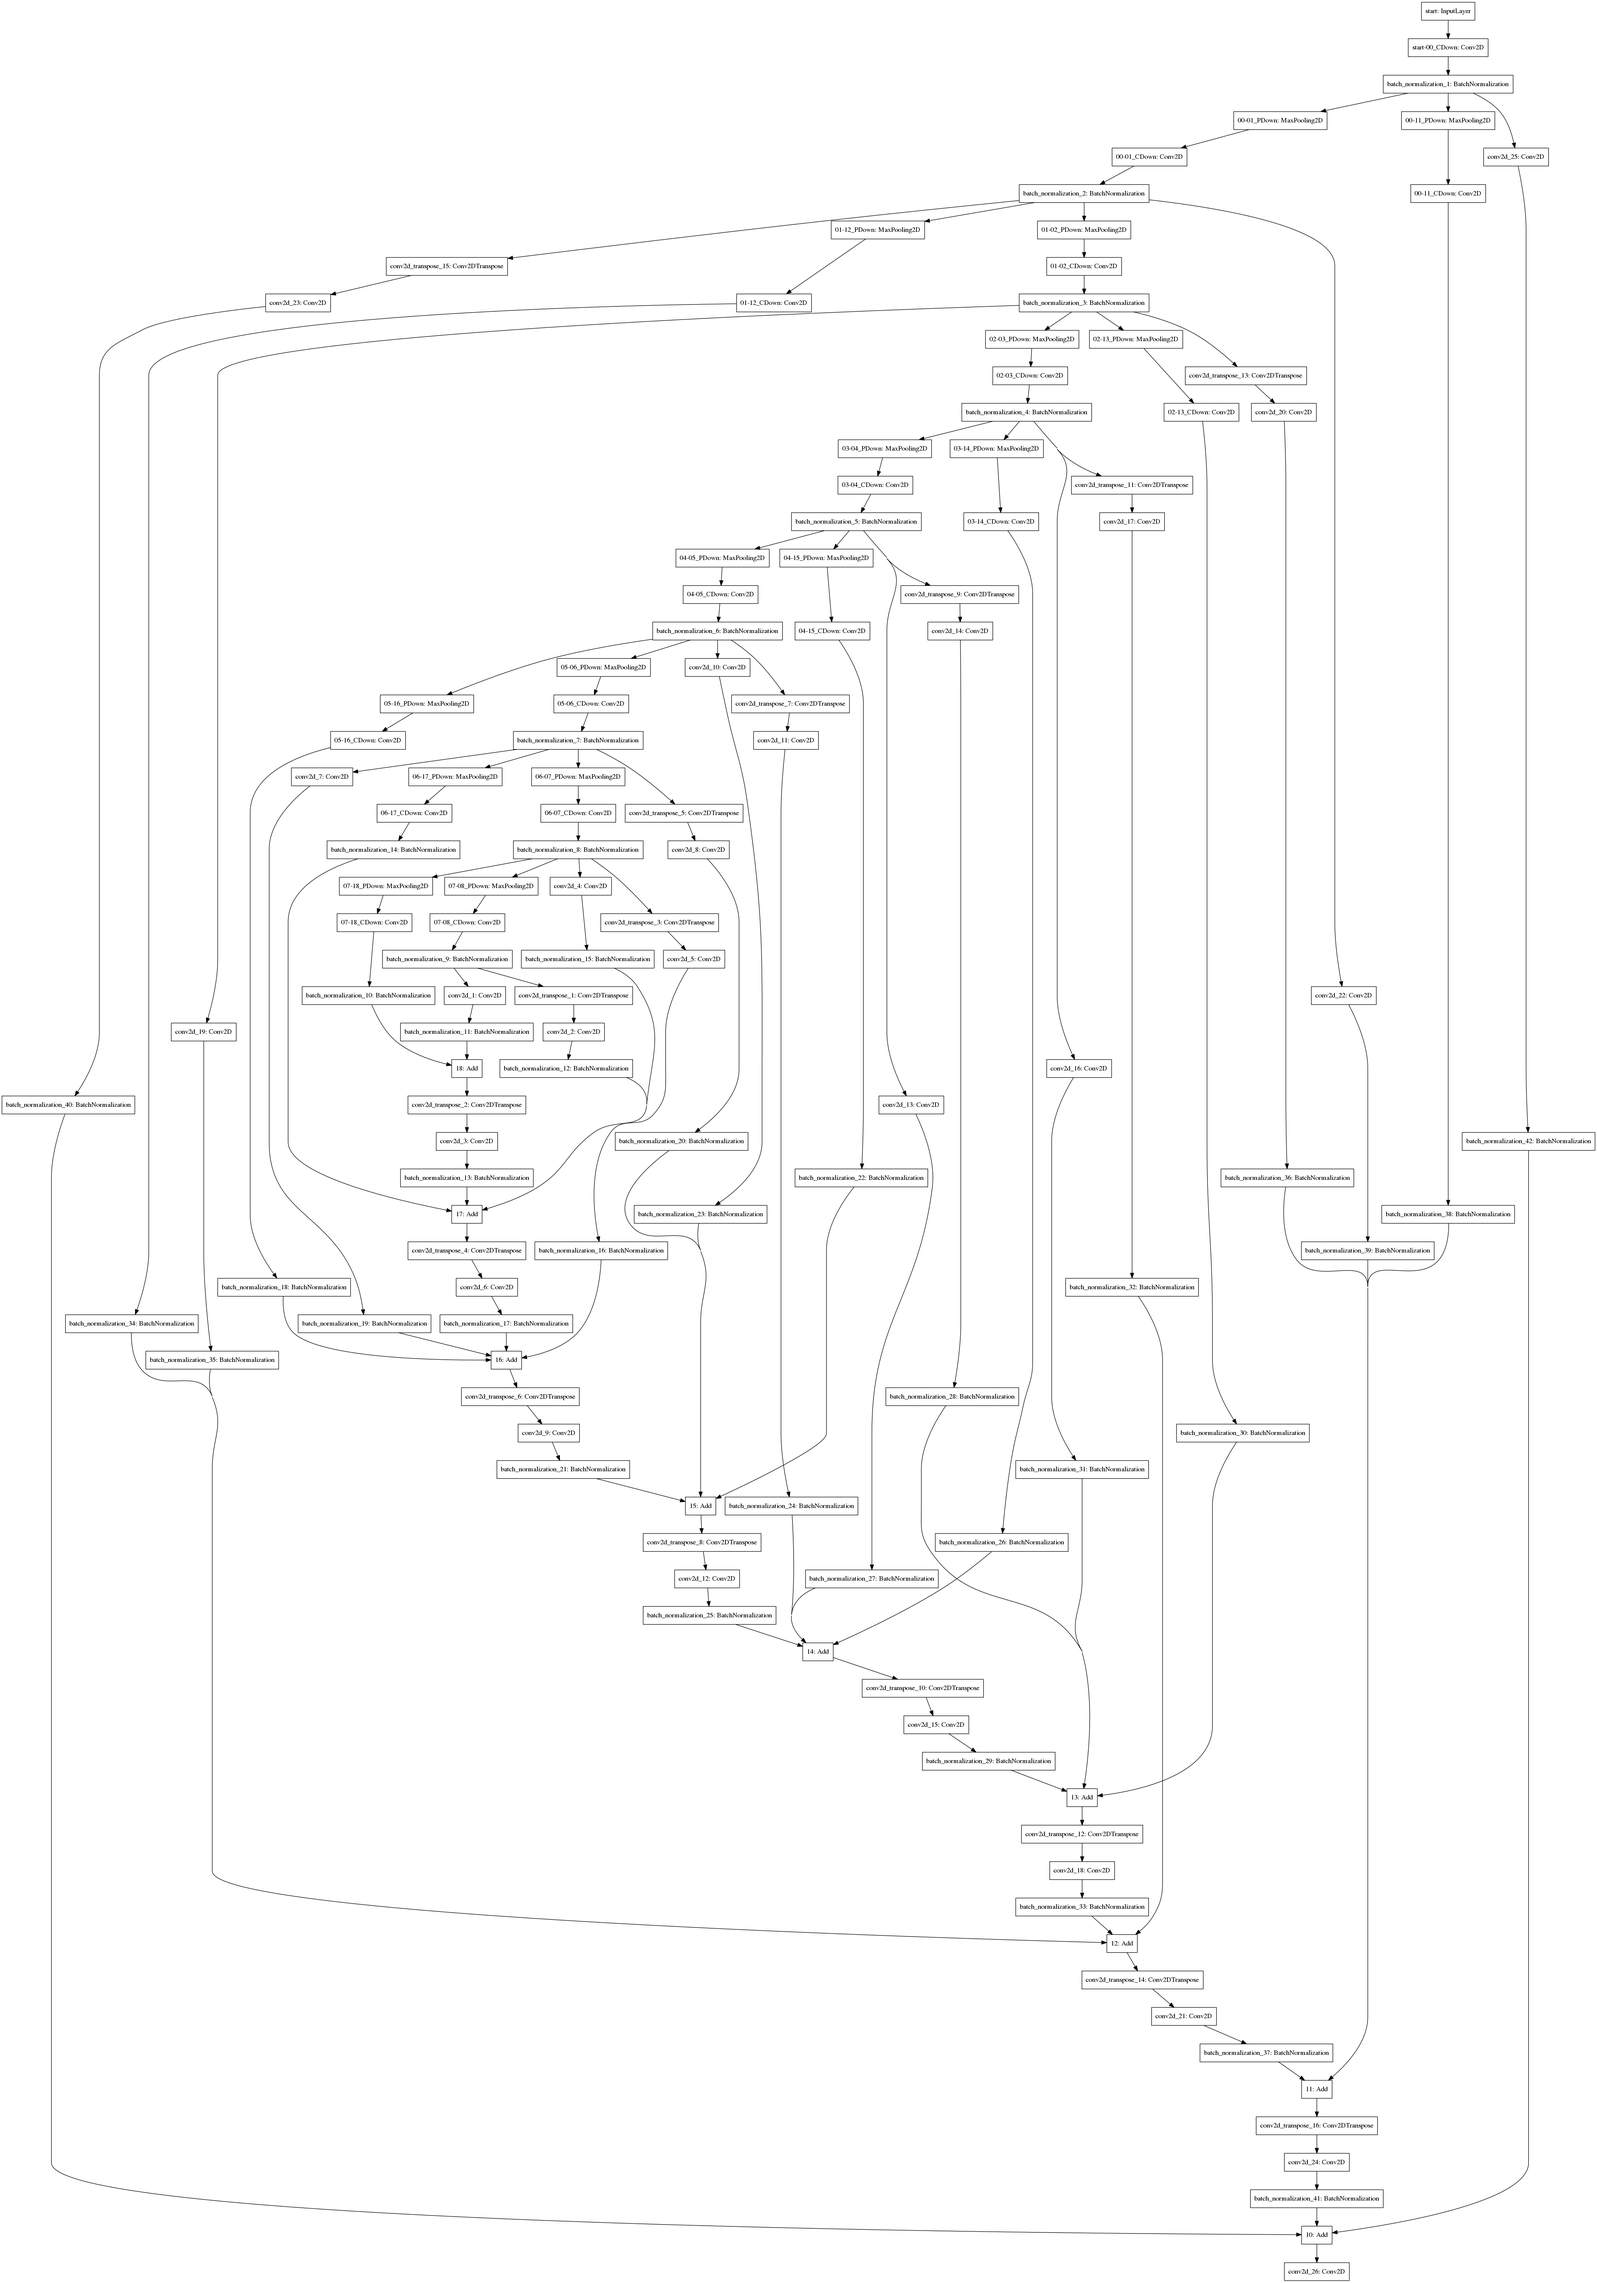
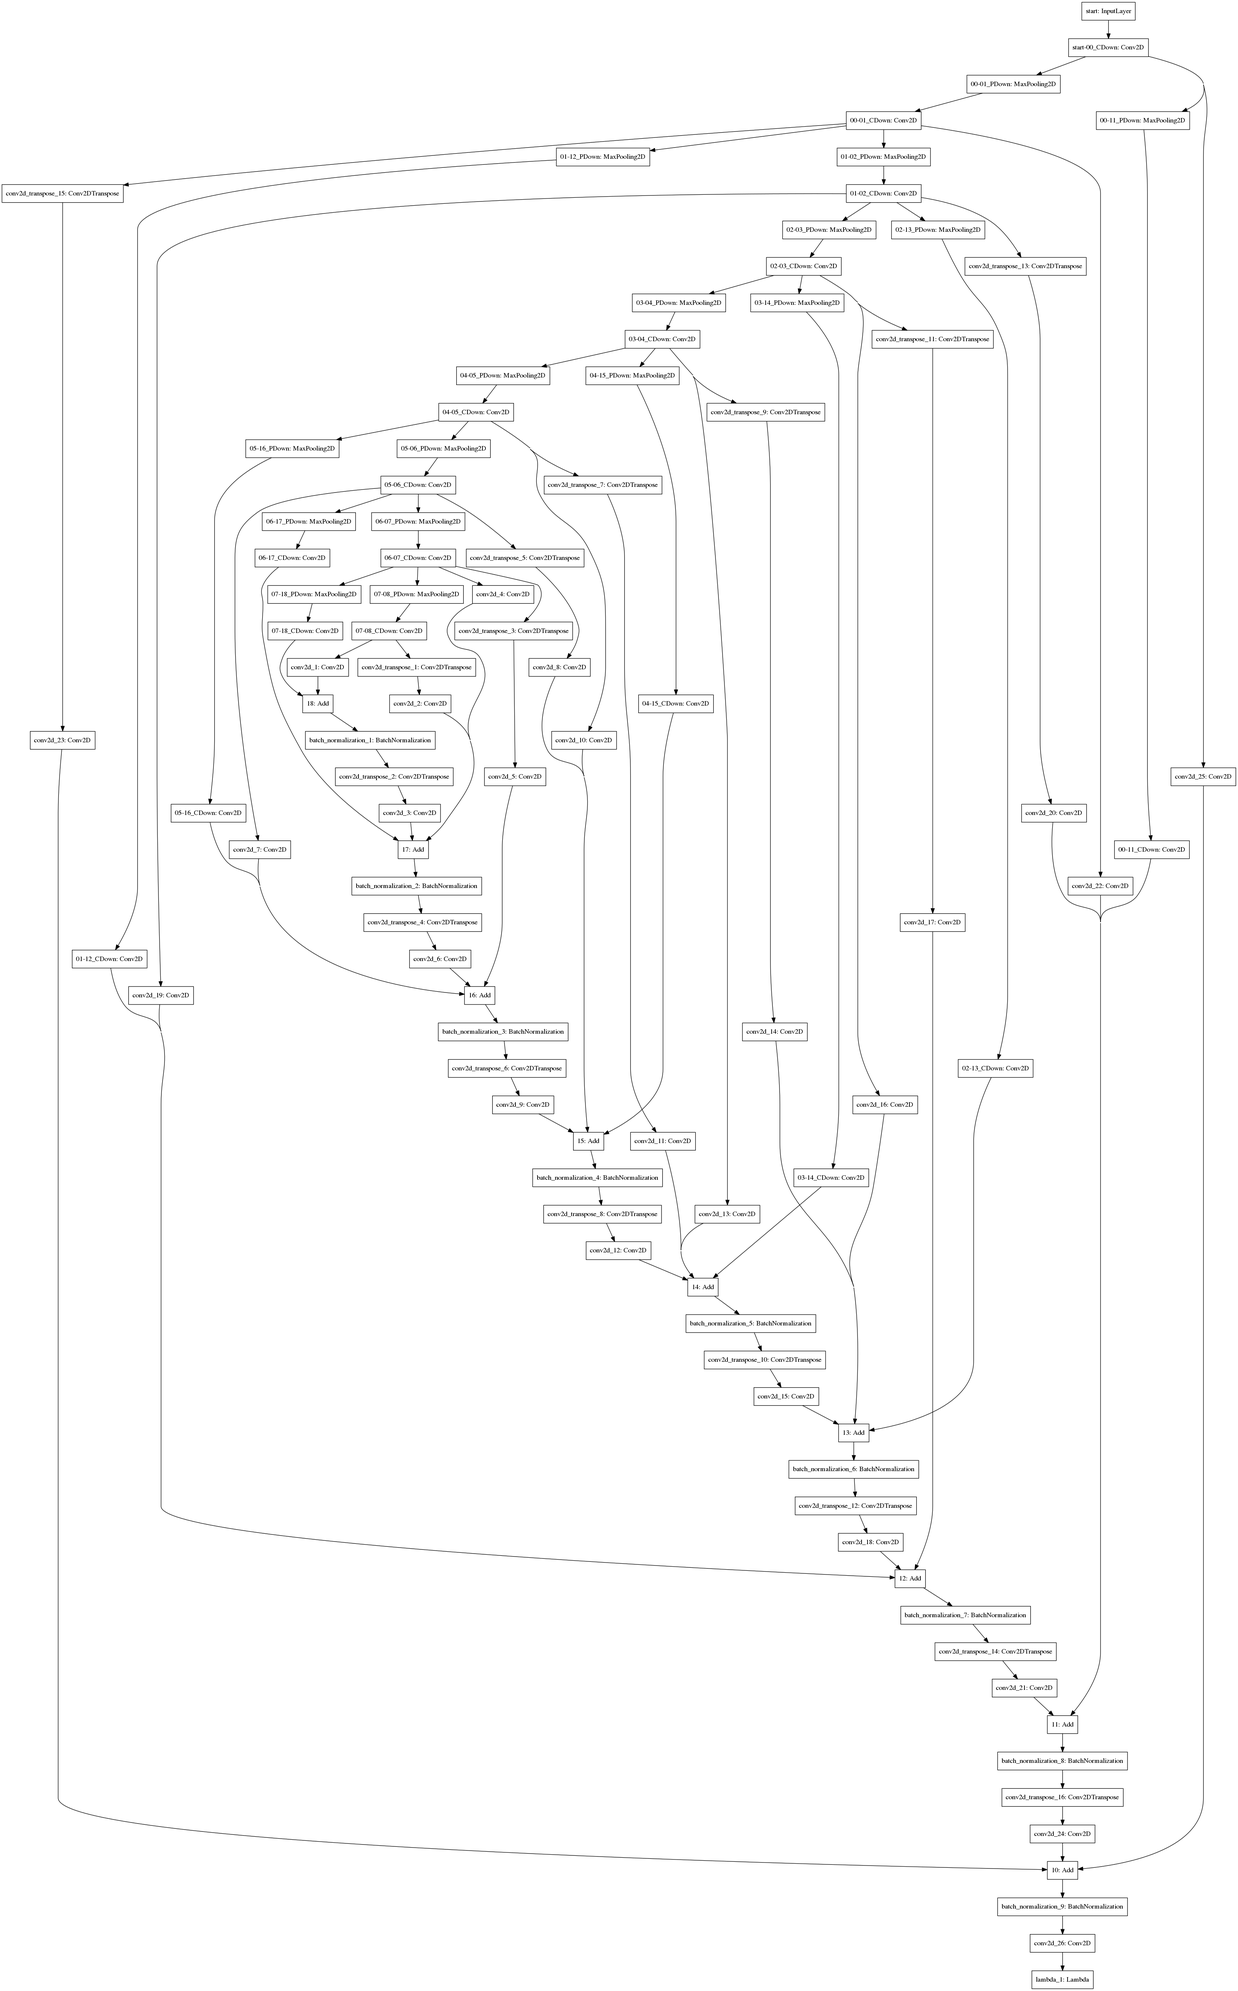
Better learning rate, the default. Batchnorm after add - less parameters.

diff --git a/layers.py b/layers.py
@@ -18,7 +18,7 @@ class DownSample():
         self.filters = filters
         self.pool = MaxPooling2D(pool_size=pool_size,
                                  name=start + '-' + end + '_PDown')
-        self.norm = BatchNormalization()
+        # self.norm = BatchNormalization()
         self.conv = Conv2D(self.filters,
                            kernel_size,
                            activation=activation,
@@ -32,7 +32,7 @@ class DownSample():
         if self.pooling:
             x = self.pool(x)
         x = self.conv(x)
-        x = self.norm(x)
+        # x = self.norm(x)
 
         return x
 
@@ -61,7 +61,7 @@ class UpSample():
                                           kernel_shape,
                                           strides=strides,
                                           padding=padding)
-        self.norm = BatchNormalization()
+        # self.norm = BatchNormalization()
         self.conv = Conv2D(filters,
                            **conv_param)
 
@@ -70,7 +70,7 @@ class UpSample():
     def __call__(self, x):
         x = self.conv_trans(x)
         x = self.conv(x)
-        x = self.norm(x)
+        # x = self.norm(x)
 
         return x
 
@@ -99,12 +99,12 @@ class SameRes():
                            activation=activation,
                            padding=padding,
                            use_bias=False)
-        self.norm = BatchNormalization()
+        # self.norm = BatchNormalization()
         super(SameRes, self).__init__(*kwargs)
 
     def __call__(self, x):
         x = self.conv(x)
-        x = self.norm(x)
+        # x = self.norm(x)
 
         return x
 

diff --git a/fabrics.py b/fabrics.py
@@ -1,4 +1,4 @@
-from keras.layers import Conv2D, MaxPooling2D, Conv2DTranspose, Add, Input, Lambda
+from keras.layers import Conv2D, MaxPooling2D, Conv2DTranspose, Add, Input, Lambda, BatchNormalization
 from keras.models import Model
 from keras.optimizers import Adam
 import numpy as np
@@ -22,6 +22,7 @@ class Node():
                 self.tensor = self.incoming_tensors[0]
             else:
                 self.tensor = Add(name=self.name)(self.incoming_tensors)
+                self.tensor = BatchNormalization()(self.tensor)
 
         return self.tensor
 
@@ -140,7 +141,7 @@ class Fabric():
         conv = Lambda(lambda x: x[:, 3:-3, 3:-3])(conv)
 
         model = Model(inputs=[inputs], outputs=[conv])
-        model.compile(optimizer=Adam(lr=1e-5),
+        model.compile(optimizer=Adam(),
                       loss="categorical_crossentropy",
                       metrics=['accuracy'])
 
